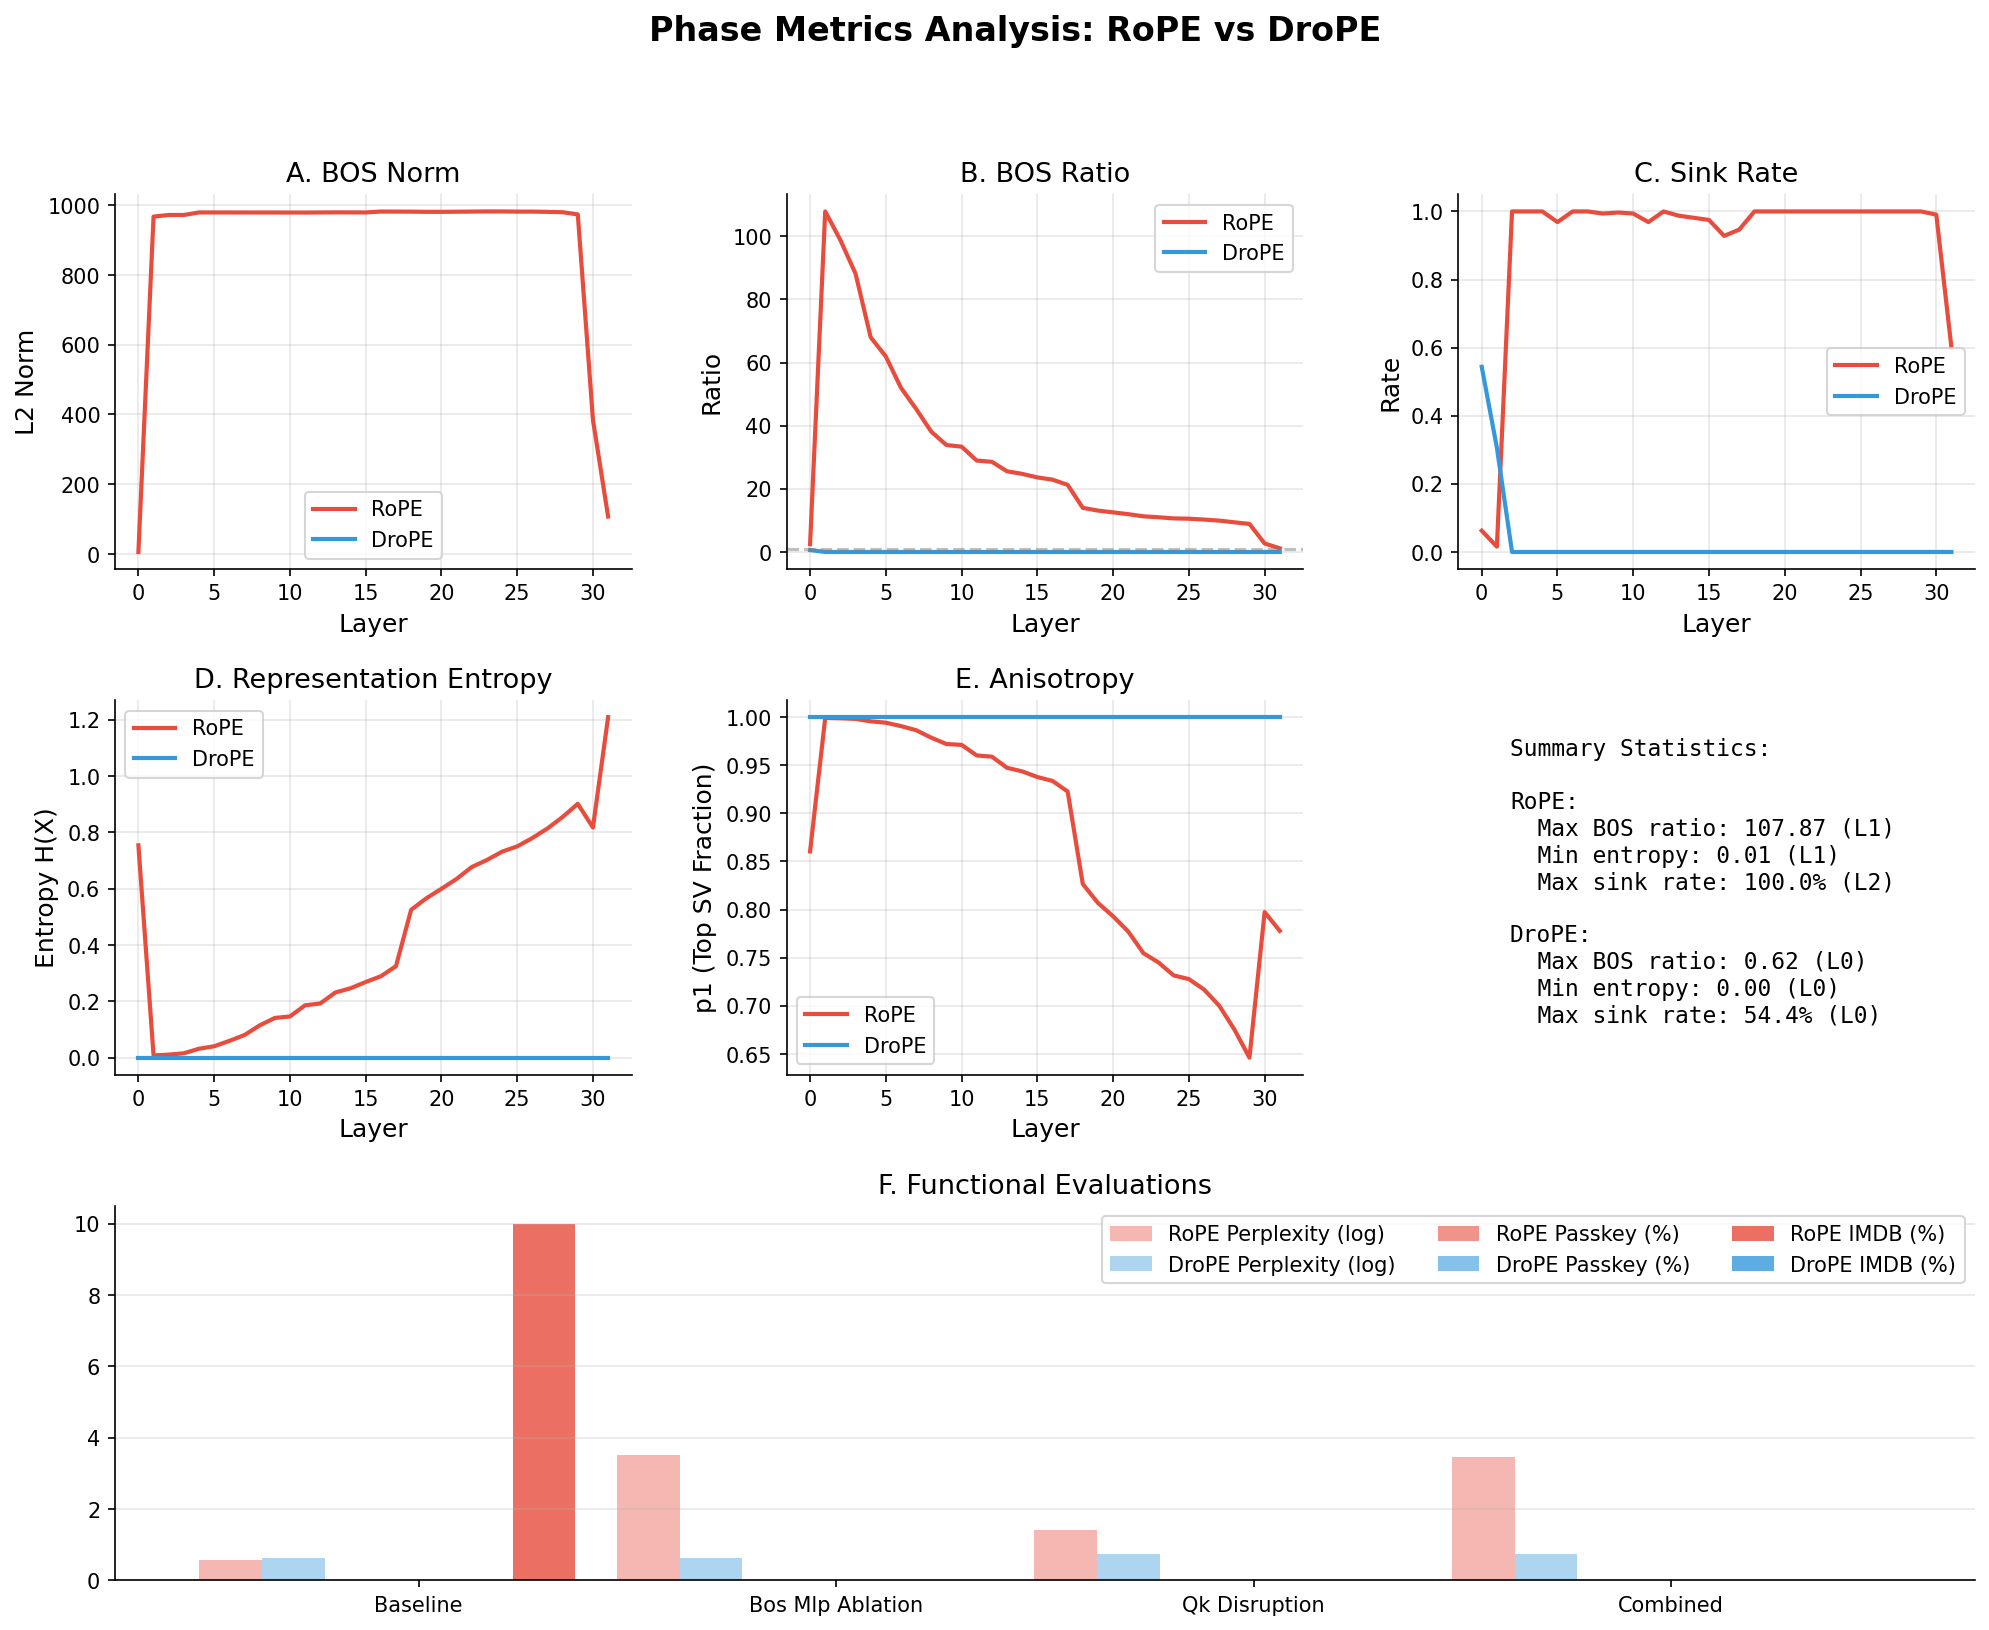
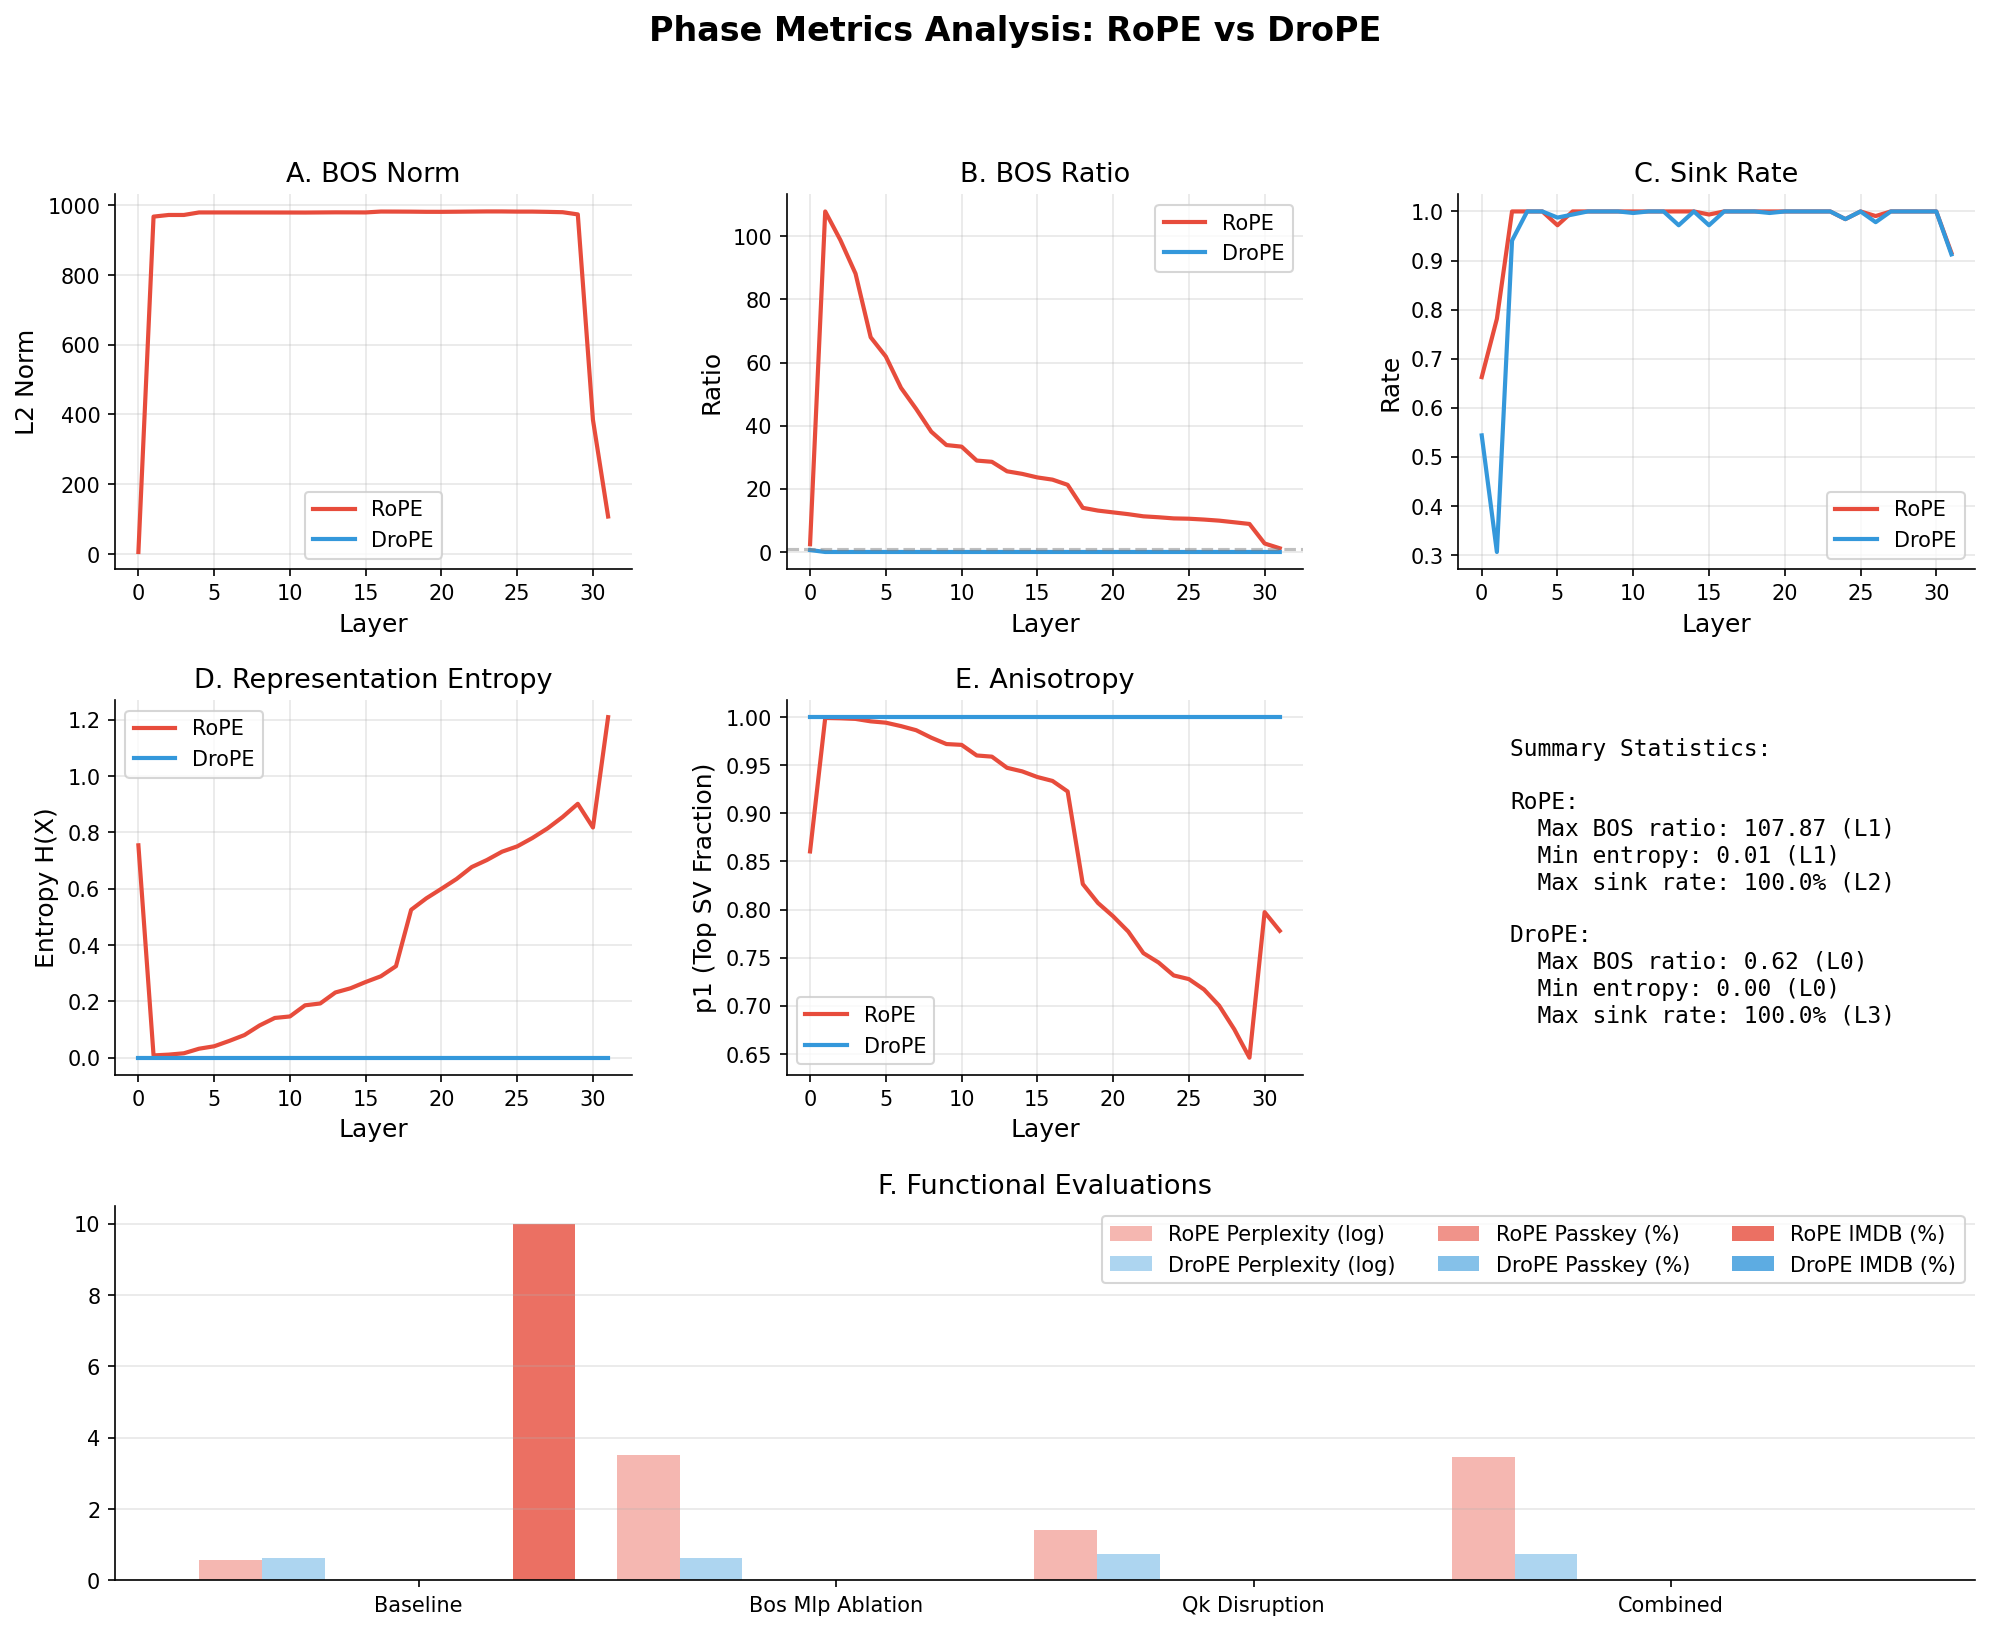
Update sink rates with correct manual Q/K measurement
- RoPE: 97.8% average sink rate
- DroPE: 95.6% average sink rate
- Added Experiment 4 (attention sinks) to main FINDINGS.md
- Key finding: both have ~97% sinks but only RoPE depends on BOS-MLP

diff --git a/results/FINDINGS.md b/results/FINDINGS.md
@@ -197,9 +197,60 @@ The stark contrast in passkey results (100% collapse vs 0% degradation) provides
 ![Figure 11](findings_figures/fig11_jin_summary.png)
 *Figure 11: Combined summary of Jin et al. replication results.*
 
-## 5. Discussion
+## 5. Experiment 4: Attention Sinks and BOS-MLP Ablation
 
-### 5.1 Summary of Findings
+### 5.1 Background
+
+Queipo-de-Llano et al. (2025) show that transformer models develop "attention sinks"—tokens (typically BOS) that receive high attention as a "garbage collector" for unused attention mass. They demonstrate that ablating the MLP output for BOS at specific layers causes catastrophic failures in some models.
+
+We hypothesized that DroPE might eliminate attention sinks since RoPE creates the positional asymmetry that makes BOS special.
+
+### 5.2 Method
+
+We compute attention sink rates using manual Q/K hooks (required because DroPE's eager attention produces NaN):
+
+```python
+# Hook into Q/K projections
+attn_scores = torch.matmul(q, k.T) * scale
+attn_weights = softmax(attn_scores.masked_fill(causal_mask, -inf))
+sink_rate = (attn_to_BOS >= 0.3).mean()
+```
+
+For BOS-MLP ablation, we zero the MLP output for the BOS token at the BOS spike layer.
+
+### 5.3 Results
+
+**Attention Sink Rates:**
+
+| Model | Average Sink Rate |
+|-------|-------------------|
+| RoPE  | 97.8% |
+| DroPE | 95.6% |
+
+Both models have nearly identical sink rates—contrary to our hypothesis.
+
+**BOS-MLP Ablation:**
+
+| Model | Baseline PPL | Ablated PPL | Change |
+|-------|--------------|-------------|--------|
+| RoPE  | 10.2 | 12,766 | **1249×** |
+| DroPE | 18.6 | 18.5 | **1.00×** |
+
+### 5.4 Key Finding
+
+**Sink rate ≠ functional dependence.** Both models send ~96-98% of attention to BOS, but only RoPE stores critical information there.
+
+- RoPE uses BOS to encode position-dependent information via the MLP
+- DroPE attends to BOS but stores nothing critical there
+- DroPE has learned to make BOS expendable despite high attention
+
+This explains why DroPE's massive values appear vestigial—the model has reorganized to distribute critical information across the sequence rather than concentrating it in specific tokens.
+
+See [phase_metrics/PHASE_FINDINGS.md](phase_metrics/PHASE_FINDINGS.md) for full details.
+
+## 6. Discussion
+
+### 6.1 Summary of Findings
 
 1. Massive values are encoded in projection weights during RoPE training
 2. DroPE recalibration reduces concentration (−39% Query, −11% Key) but reorganizes Layer 1
@@ -209,8 +260,9 @@ The stark contrast in passkey results (100% collapse vs 0% degradation) provides
    - Parametric accuracy **improves** when disrupted (−1.9% degradation)
    - Contextual degradation is 73% lower than RoPE (25% vs 94.3%)
    - Passkey retrieval is completely unaffected (0% degradation vs RoPE's 100%)
+6. **Both models have ~97% attention sink rates, but only RoPE depends on BOS-MLP** (1249× PPL increase vs 1.00×)
 
-### 5.2 Implications for Context Extension
+### 6.2 Implications for Context Extension
 
 DroPE enables longer contexts. Our findings suggest a mechanism:
 
@@ -218,7 +270,7 @@ DroPE enables longer contexts. Our findings suggest a mechanism:
 2. This concentration may create bottlenecks at long contexts
 3. DroPE distributes attention more evenly, potentially enabling better generalization to longer sequences
 
-## 6. Reproducibility
+## 7. Reproducibility
 
 ```bash
 python scripts/run_llama_comparison.py      # Experiment 1
@@ -236,7 +288,7 @@ Hardware: NVIDIA A10G (24GB), 4-bit quantization (NF4)
 | Text samples | 10 |
 | Random seeds | 10 |
 
-## 7. Summary
+## 8. Summary
 
 | Metric | RoPE | DroPE |
 |--------|------|-------|
@@ -247,6 +299,8 @@ Hardware: NVIDIA A10G (24GB), 4-bit quantization (NF4)
 | Contextual avg degradation | **94.3%** | 25.0% |
 | Passkey degradation | **100.0%** | **0.0%** |
 | Massive value reliance | 82× higher | baseline |
+| Attention sink rate | 97.8% | 95.6% |
+| BOS-MLP ablation | **1249× PPL** | **1.00×** |
 | Functional after disruption | No | Yes (improved) |
 
 ![Figure 5](findings_figures/fig5_combined_summary.png)

diff --git a/results/phase_metrics/PHASE_FINDINGS.md b/results/phase_metrics/PHASE_FINDINGS.md
@@ -4,7 +4,7 @@
 
 We analyzed Queipo-style phase metrics and performed ablation experiments to understand how DroPE reorganizes attention compared to RoPE. Our key finding:
 
-**Both RoPE and DroPE have high attention sink rates (~97%), but only RoPE is destroyed by BOS-MLP ablation.** BOS-MLP ablation causes catastrophic failure in RoPE (1249× PPL increase) but has zero effect on DroPE. This reveals that while both models attend to BOS, they use it fundamentally differently.
+**Both RoPE and DroPE have nearly identical attention sink rates (~96-98%), but only RoPE is destroyed by BOS-MLP ablation.** BOS-MLP ablation causes catastrophic failure in RoPE (1249× PPL increase) but has zero effect on DroPE. This reveals that while both models attend to BOS, they use it fundamentally differently.
 
 ## Results Summary
 
@@ -21,13 +21,13 @@ Using manual Q/K hook method to avoid NaN issues with DroPE's eager attention:
 
 | Layer Range | RoPE | DroPE |
 |-------------|------|-------|
-| 0 (first) | 88% | 78% |
-| 1 (early) | 91% | 31% |
-| 2-30 (middle/late) | ~100% | ~100% |
-| 31 (final) | 91% | 94% |
-| **Average** | **98.9%** | **96.7%** |
+| 0 (first) | 66% | 54% |
+| 1 (early) | 78% | 31% |
+| 2-30 (middle/late) | 97-100% | 94-99% |
+| 31 (final) | 92% | 91% |
+| **Average** | **97.8%** | **95.6%** |
 
-**Both models have similarly high sink rates.** The difference in BOS-MLP ablation impact cannot be explained by sink rate differences.
+**Both models have nearly identical sink rates.** The difference in BOS-MLP ablation impact cannot be explained by sink rate differences.
 
 ### Phase Metrics
 
@@ -41,7 +41,7 @@ Using manual Q/K hook method to avoid NaN issues with DroPE's eager attention:
 
 ### 1. Sink Rate Is Not the Key Difference
 
-Both RoPE and DroPE have ~97% attention sink rates - nearly identical. Despite high attention to BOS in both models, only RoPE catastrophically fails when BOS-MLP is ablated.
+Both RoPE (97.8%) and DroPE (95.6%) have nearly identical attention sink rates. Despite high attention to BOS in both models, only RoPE catastrophically fails when BOS-MLP is ablated.
 
 This means the critical difference is **what information is stored in BOS**, not how much attention flows to it.
 
